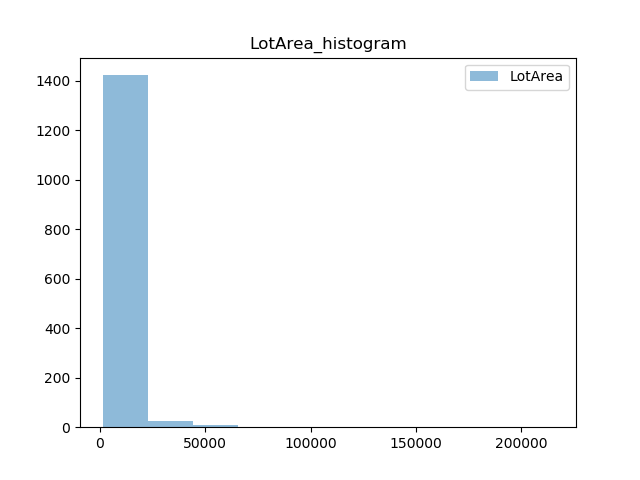
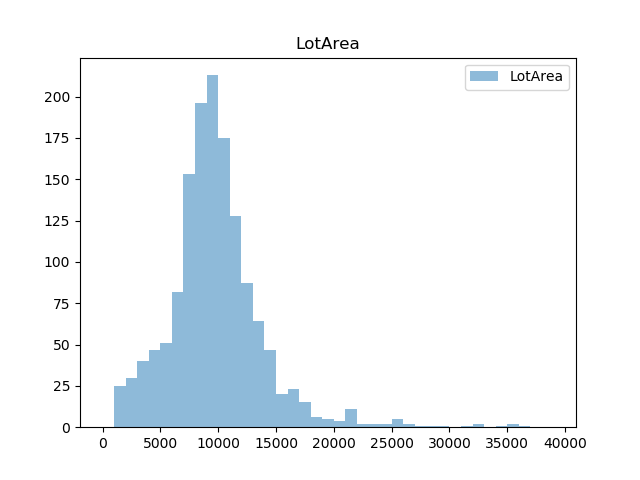
updated a few graphs and notes. updated graph_code.py

diff --git a/preprocessing/graph_code.py b/preprocessing/graph_code.py
@@ -8,6 +8,9 @@ from datetime import datetime
 dataTrain = '/home/markg/kaggle/house_prices/data/original/train.csv'
 dfTrain = pd.read_csv(dataTrain, index_col=0)
 
+# store response
+y = dfTrain['SalePrice']
+
 def drawBarchart(column, title):
     # create a list of categories and values
     categories = [i for i in dfTrain[column].value_counts().index]
@@ -15,7 +18,18 @@ def drawBarchart(column, title):
 
     plt.bar(categories, values, align='center', alpha=0.5)
     plt.title(title)
-    plt.savefig("/home/markg/kaggle/house_prices/graphs/barcharts/" + title + ".png")
+    plt.savefig("/home/markg/kaggle/house_prices/graphs/barcharts/" + title +
+                "_barchart.png")
+
+def drawHistogram(column, title):
+    binwidth=None
+    binwidth = [x for x in range(0,500000, 10000)] # optional: set binwidth
+
+    plt.hist(dfTrain[column], alpha=0.5, bins=binwidth, label=column)
+    plt.title(title)
+    plt.legend(loc='upper right')
+    plt.savefig("/home/markg/kaggle/house_prices/graphs/histograms/" + title +
+                "_histogram.png")
 
 def drawTwoHist(colA, colB, title):
     # plots a double histogram with overlaps
@@ -23,10 +37,18 @@ def drawTwoHist(colA, colB, title):
     plt.hist(dfTrain[colB], alpha=0.5, label=colB)
     plt.legend(loc='upper right')
     plt.title(title)
-    plt.savefig("/home/markg/kaggle/house_prices/graphs/histograms/" + title + ".png")
+    plt.savefig("/home/markg/kaggle/house_prices/graphs/histograms/" + title +
+                "_histogram.png")
 
-def drawHistogram(column, title):
-    plt.hist(dfTrain[column], alpha=0.5, label=column)
+def drawScatter(column, title):
+    plt.scatter(dfTrain[column], y)
+    # plt.xlim(0, 50000) # optional: set x axis limit
+    plt.title(title + "_Vs_SalePrice")
+    plt.savefig("/home/markg/kaggle/house_prices/graphs/scatterPlots/" + title +
+                "_scatter.png")
+
+def drawBoxplot(column, title):
+    plt.boxplot(dfTrain[column])
     plt.title(title)
-    plt.legend(loc='upper right')
-    plt.savefig("/home/markg/kaggle/house_prices/graphs/histograms/" + title + ".png")
+    plt.savefig("/home/markg/kaggle/house_prices/graphs/boxplots/" + title +
+                "_boxplot.png")

diff --git a/preprocessing/exploratory.py b/preprocessing/exploratory.py
@@ -9,6 +9,7 @@ from graph_code import *
 dataTrain = '/home/markg/kaggle/house_prices/data/original/train.csv'
 dfTrain = pd.read_csv(dataTrain, index_col=0)
 # print (dfTrain.info())
+# print (dfTrain['MSSubClass'])
 
 # count the number of different types of variables
 # print (dfTrain.dtypes.value_counts())
@@ -18,6 +19,10 @@ dfTrain = pd.read_csv(dataTrain, index_col=0)
 
 # sort dataframe by another column
 # print (dfTrain.groupby('MSZoning').count())
+
+# # select features of a certain type
+# for feature in dfTrain.select_dtypes(include=[object]):
+#     drawBarchart(str(feature), title=str(feature) + "_barchart")
 
 # ################# Missing Values ################################
 #
@@ -36,10 +41,4 @@ dfTrain = pd.read_csv(dataTrain, index_col=0)
 # ################# END Missing Values ##############################
 
 # drawTwoHist('OverallCond', 'OverallQual', title="OverallCond_OvverallQual_histogram")
-# drawBarchart('MSZoning', title = "MSZoning_Barchart2")
-# drawHistogram('LotArea', title="LotArea_histogram")
-
-# # create n-1 dummy variables for 'Embarked' variable
-# dfTrain = pd.get_dummies(dfTrain, columns=['MSSubClass'], prefix=['SubClass'],
-#  drop_first=True)
-# print (dfTrain.info())
+drawHistogram('SalePrice', title='SalePrice')

diff --git a/preprocessing/preprocessing.py b/preprocessing/preprocessing.py
@@ -7,3 +7,8 @@ from datetime import datetime
 # read original train data
 dataTrain = '/home/markg/kaggle/house_prices/data/original/train.csv'
 dfTrain = pd.read_csv(dataTrain, index_col=0)
+
+# # create n-1 dummy variables for 'Embarked' variable
+# dfTrain = pd.get_dummies(dfTrain, columns=['MSSubClass'], prefix=['SubClass'],
+#  drop_first=True)
+# print (dfTrain.info())
